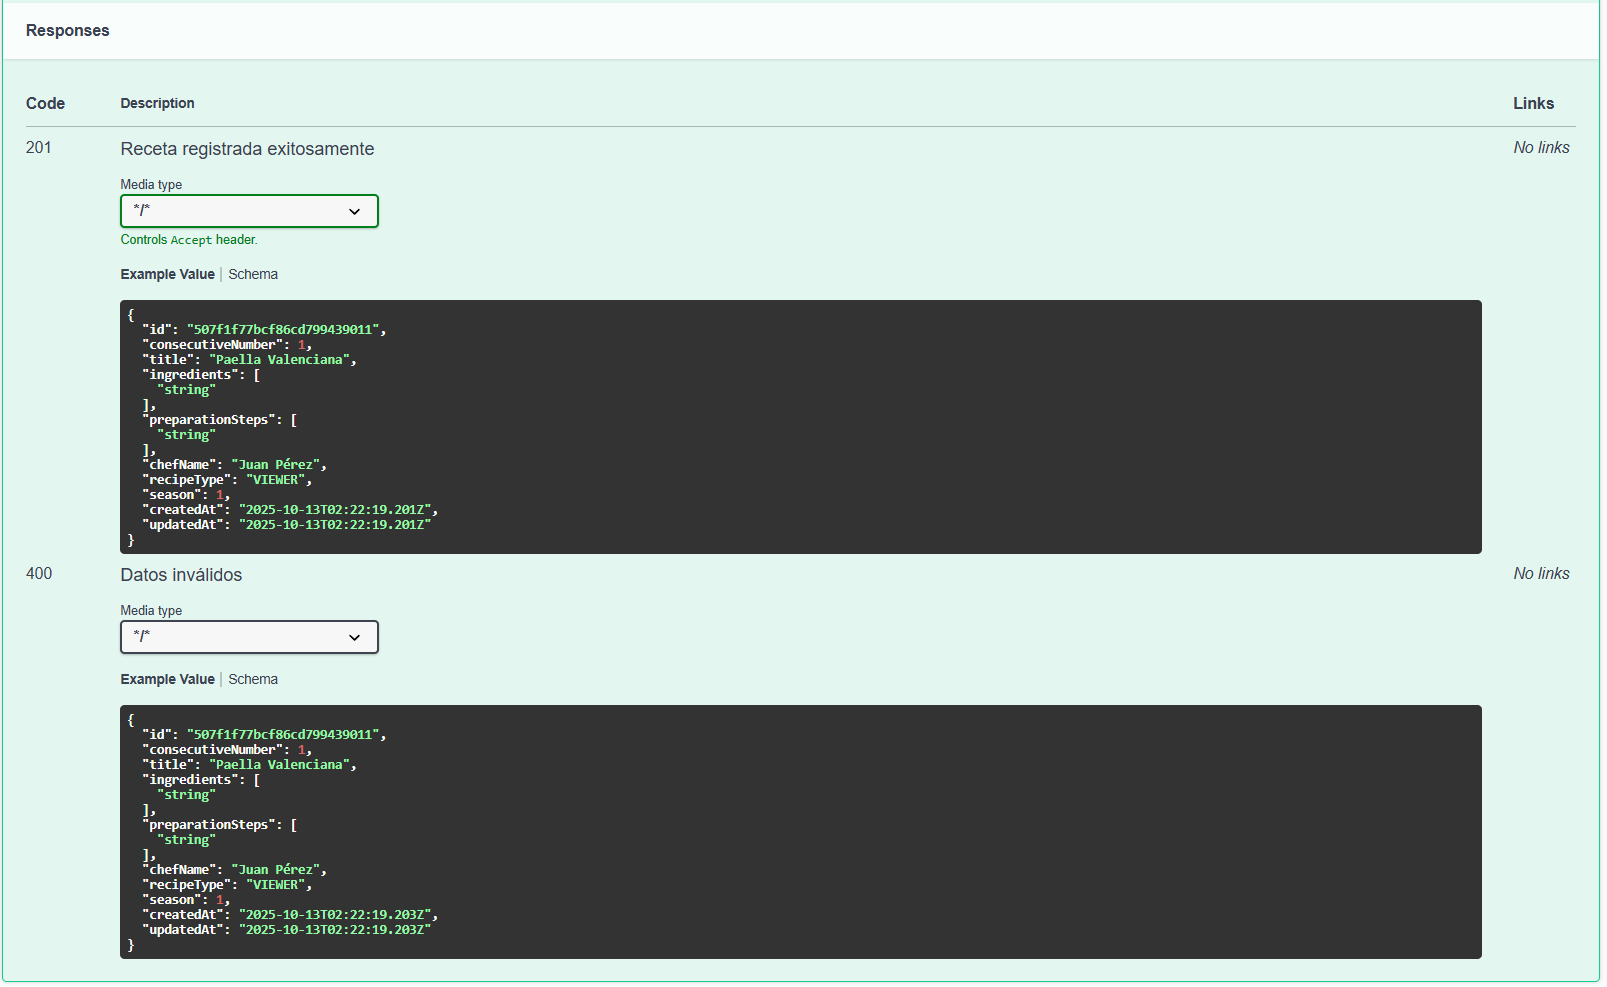
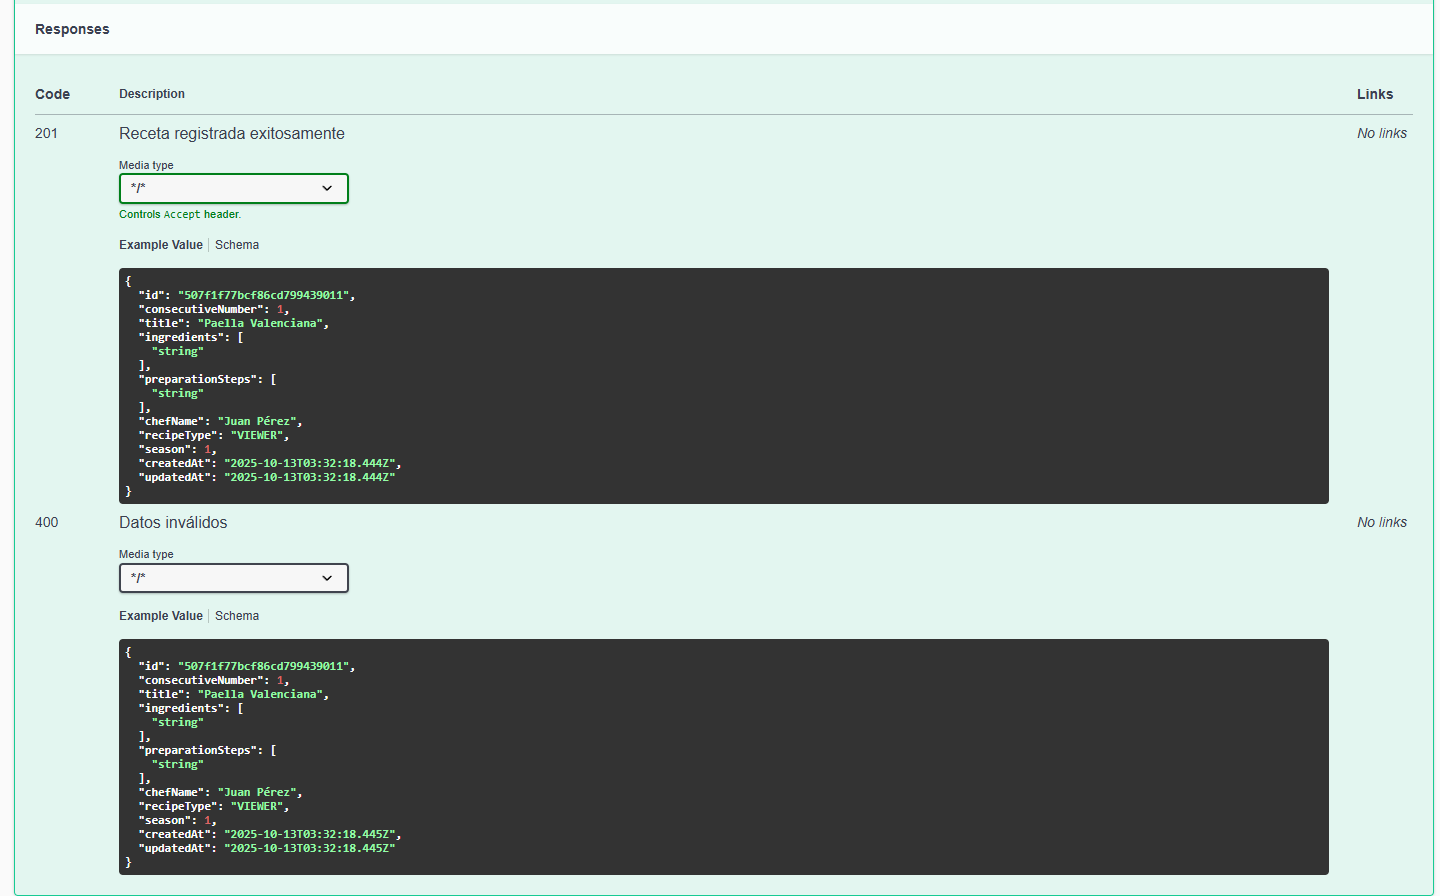
documentacion

diff --git a/README.md b/README.md
@@ -208,15 +208,16 @@ Abre tu navegador y ve a:
 
 ---
 
-## 📝 Ejemplos de Request y Response por Endpoint
+## Ejemplos de Request y Response por Endpoint
 
 ### 1. Registrar Receta de Televidente
 
-**Endpoint:** `POST /api/recipes/viewer`
+**Endpoint:** `POST /api/recipes/viewer`:  
+
 ![alt text](image.png)   
 
 ![alt text](image-1.png) 
- 
+
 ![alt text](image-2.png)
 ---
 
